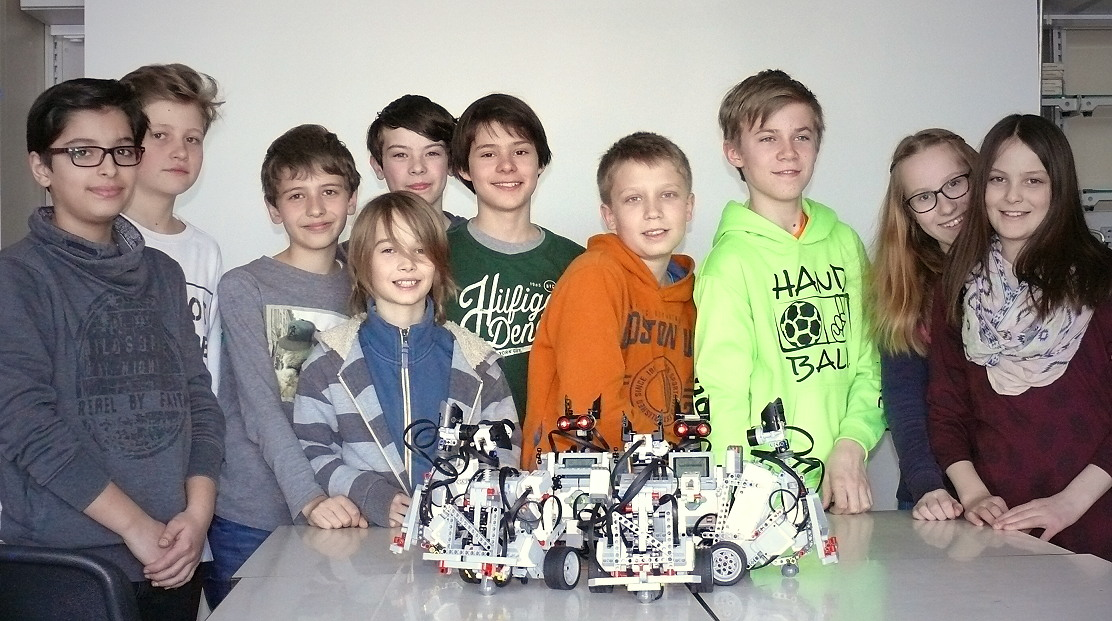
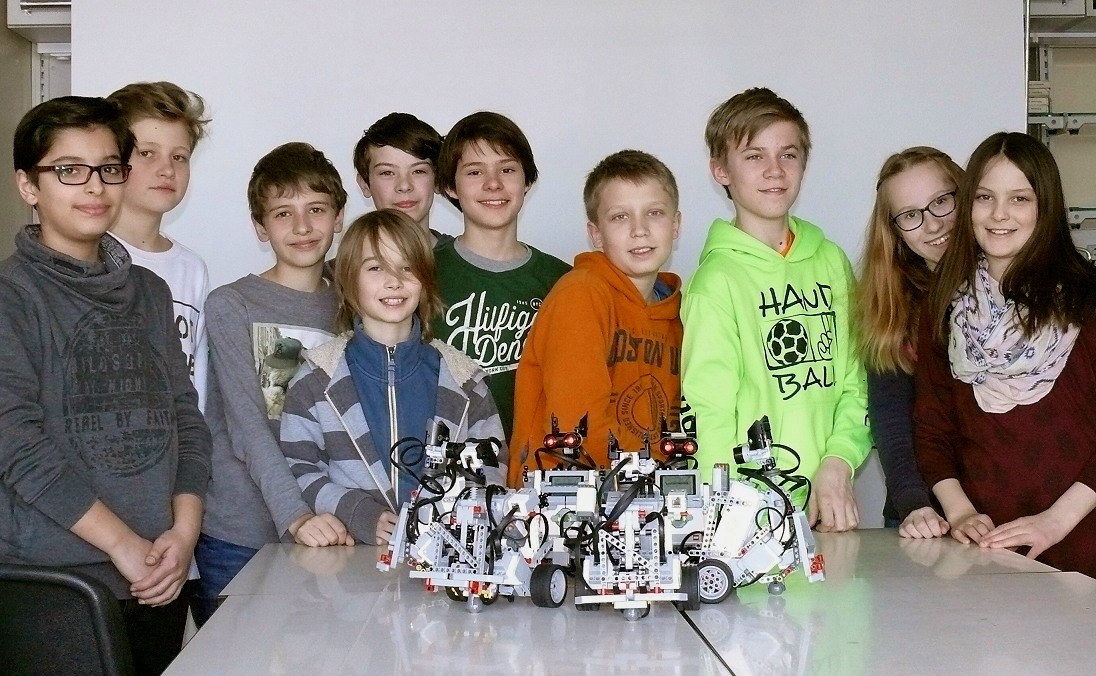
Bild verändert
git-svn-id: https://www.technikum29.de/svn/technikum29-www@919 388e7c26-a98e-49f6-8d48-46b9a15b27c2

diff --git a/robotik/index.php b/robotik/index.php
@@ -83,7 +83,7 @@ Es gibt per Programmierung unendlich viele Möglichkeiten, den Roboter "intellig
 Der Workshop richtet sich an <b>technikinteressierte Schüler(innen)</b> im Alter von <b>11 bis 13 Jahren</b>. Es gibt Kurse für Anfänger und welche für Fortgeschrittene.</p>
 
 <p>
-<img src="eds-gruppe-2016.jpg" width="405"  height="226"/> 
+<img src="eds-gruppe-2016.jpg" width="405"  height="250"/> 
 <div class="small">Die EDS-Robotik-Gruppe</small></div>
 </p>
 <h3>Anmeldung</h3>  
